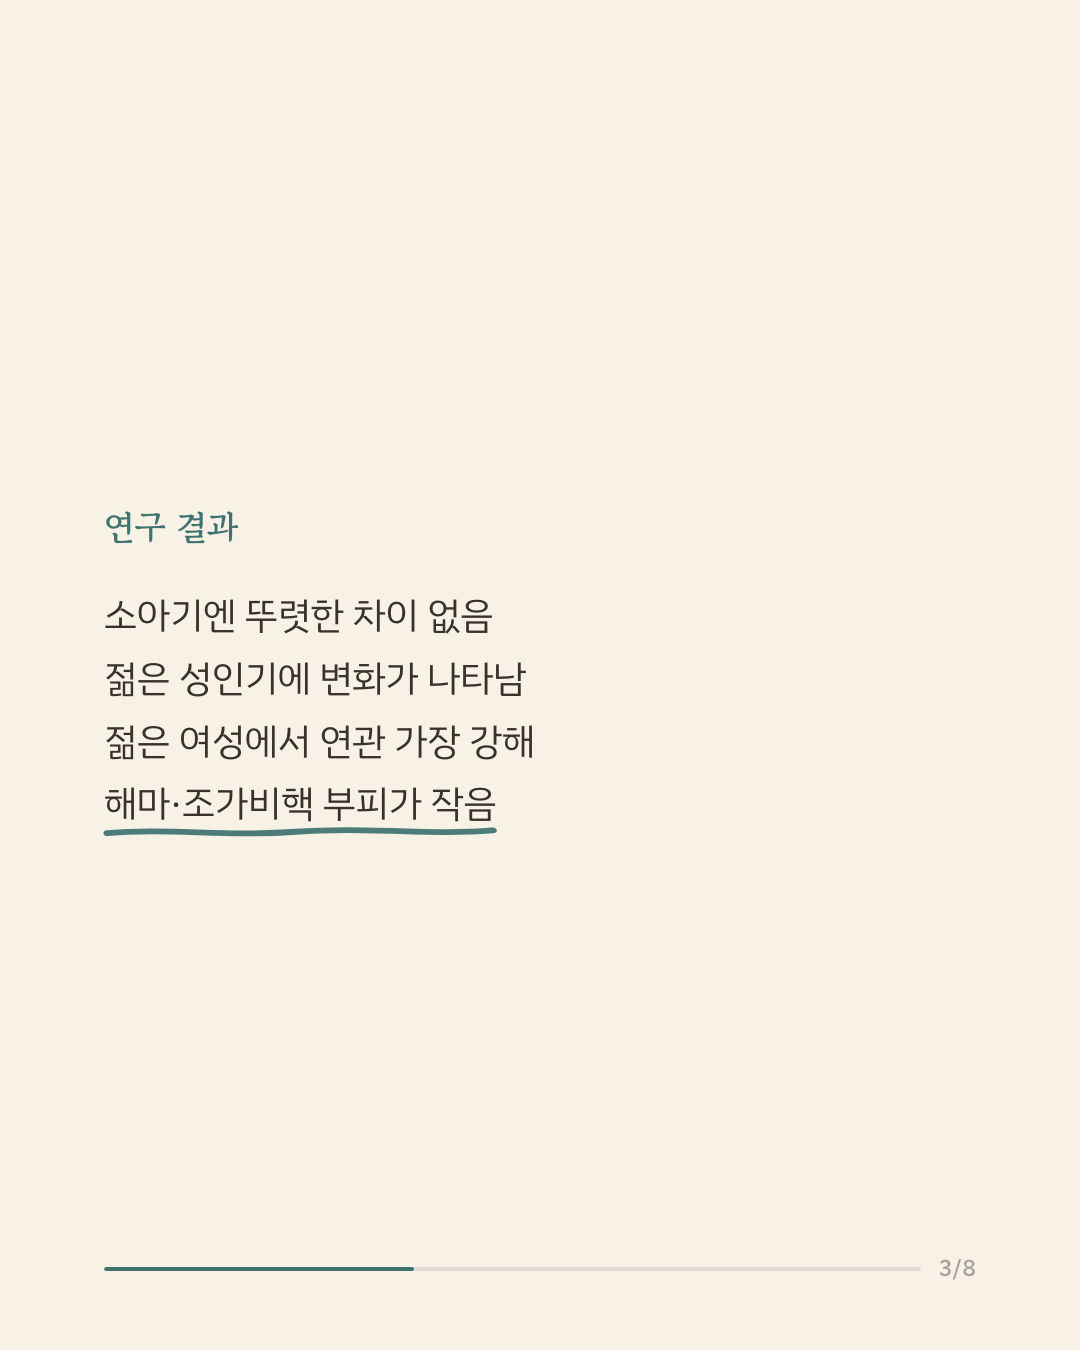
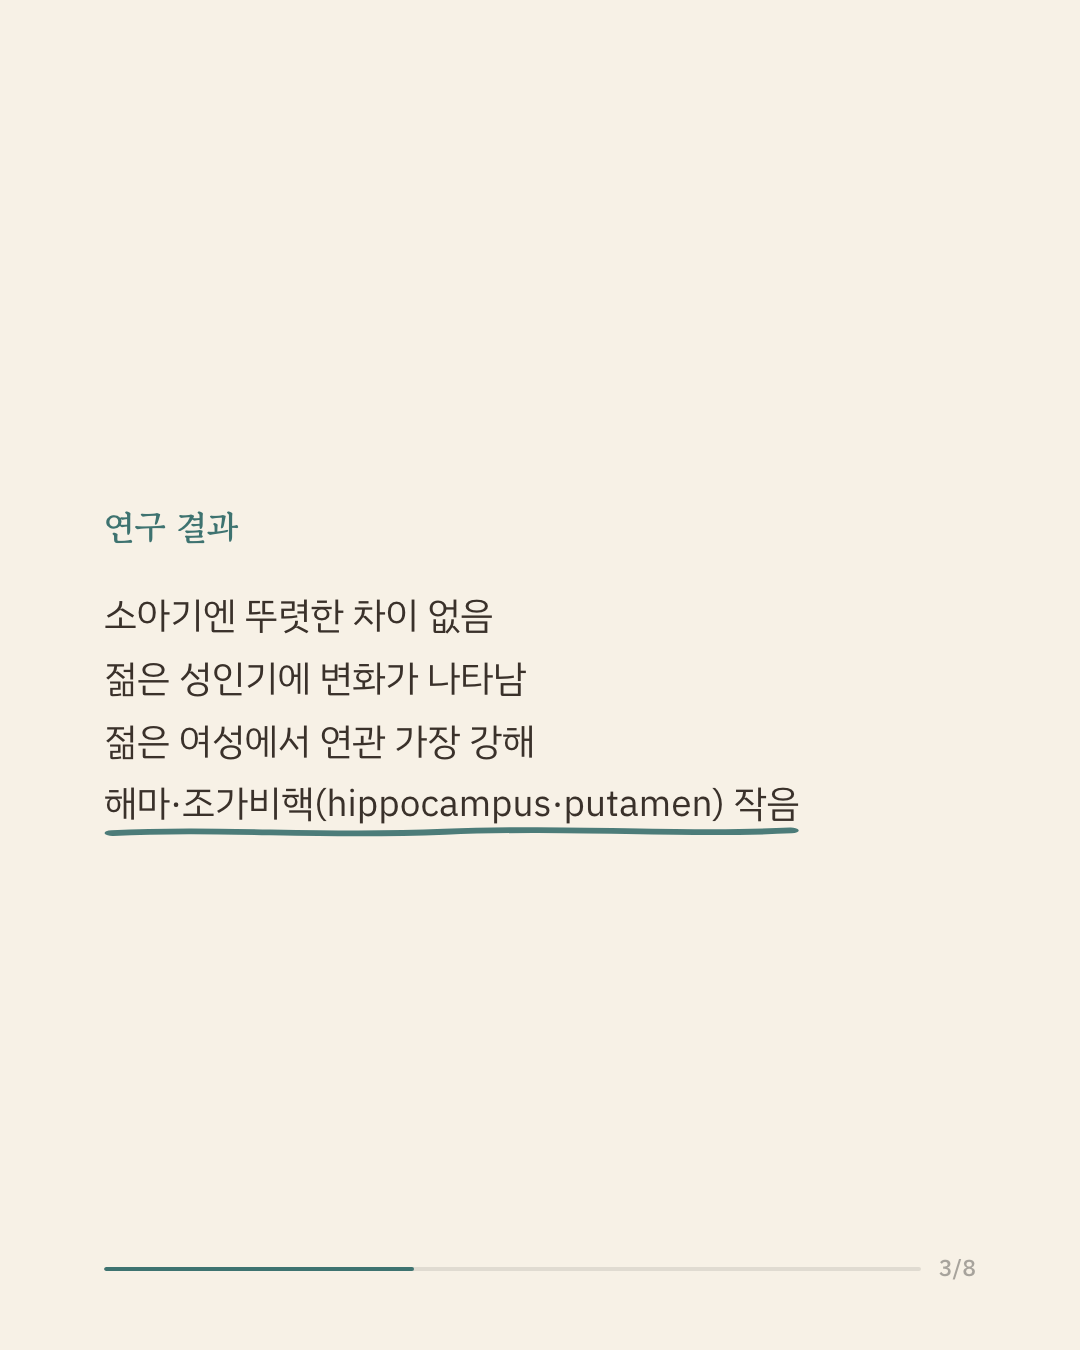
cards 41791639

Changed region(s): [[0.275, 0.56, 0.7333, 0.6222], [0.1833, 0.5911, 0.2444, 0.6222]]

diff --git a/41791639/preview.html b/41791639/preview.html
@@ -15,6 +15,6 @@ details{color:#cbbfb4} summary{cursor:pointer}
 <div class="top"><span>학대가 뇌에 남기는 흔적</span><span>9장 · 신경영상</span></div>
 <div class="gal"><img src="01.png" alt="슬라이드 1" loading="lazy"><img src="02.png" alt="슬라이드 2" loading="lazy"><img src="03.png" alt="슬라이드 3" loading="lazy"><img src="04.png" alt="슬라이드 4" loading="lazy"><img src="05.png" alt="슬라이드 5" loading="lazy"><img src="06.png" alt="슬라이드 6" loading="lazy"><img src="07.png" alt="슬라이드 7" loading="lazy"><img src="08.png" alt="슬라이드 8" loading="lazy"><img src="09.png" alt="슬라이드 9" loading="lazy"></div>
 <div class="bot">
-<details><summary>캡션 보기</summary><p style="font-size:13px;line-height:1.6">아동기의 학대와 방임은 성인기의 우울증과 외상 후 스트레스 장애 위험을 높이는 것으로 알려져 있습니다. 다만 이 두 질환에서 관찰되는 뇌 구조의 변화가 실제로 아동기 학대에서 비롯된 것인지는 분명하지 않았습니다. 연구진은 ENIGMA 컨소시엄의 우울증·PTSD 연구 그룹에 참여한 25개 기관, 3,711명(평균 33.3세, 59.9% 여성)의 뇌 MRI 자료를 규범 모델링으로 분석해 뇌 부피, 피질 두께, 표면적의 편차 점수를 구하고, 성별과 연령대(소아, 젊은 성인, 노년 성인)로 나누어 학대와의 연관성을 살펴보았습니다. 18세 이하 참가자에서는 유의한 차이가 나타나지 않았습니다. 반면 18~35세 젊은 성인에서는 학대가 시상과 담창구의 부피 증가, 일부 전두·대상 영역의 두께 변화와 관련이 있었고, 특히 젊은 여성에서 연관이 가장 뚜렷해 학대와 방임 경험이 많을수록 해마와 조가비핵의 부피가 작고 내후각 피질이 얇았으며 그 크기는 대체로 작은 수준(|β| 0.07~0.22)이었습니다. 연구진은 학대가 뇌에 남기는 영향이 발달 시기와 성별에 따라 다르게 나타난다는 점을 보여준다고 설명합니다. 다만 뇌 영상이 한 시점에 촬영된 단면 자료여서 학대와 뇌 변화의 선후 관계를 알기 어렵고, 학대 정보도 후향적 자기보고에 의존하며, 여러 기관의 자료를 합친 만큼 표본마다 질의 차이가 있습니다. 단일 연구이므로 확대 해석은 조심해야 합니다. 출처: Biological Psychiatry(2026), ENIGMA MDD·PTSD Working Groups.  #임상심리 #정신건강정보 #심리학연구 #아동학대 #뇌영상연구</p></details>
+<details><summary>캡션 보기</summary><p style="font-size:13px;line-height:1.6">아동기의 학대와 방임은 성인기의 우울증과 외상 후 스트레스 장애 위험을 높이는 것으로 알려져 있습니다. 다만 이 두 질환에서 관찰되는 뇌 구조의 변화가 실제로 아동기 학대에서 비롯된 것인지는 분명하지 않았습니다. 연구진은 ENIGMA 컨소시엄의 우울증·PTSD 연구 그룹에 참여한 25개 기관, 3,711명(평균 33.3세, 59.9% 여성)의 뇌 MRI 자료를 규범 모델링으로 분석해 뇌 부피, 피질 두께, 표면적의 편차 점수를 구하고, 성별과 연령대(소아, 젊은 성인, 노년 성인)로 나누어 학대와의 연관성을 살펴보았습니다. 18세 이하 참가자에서는 유의한 차이가 나타나지 않았습니다. 반면 18~35세 젊은 성인에서는 학대가 시상(thalamus)과 담창구(globus pallidus)의 부피 증가, 일부 전두·대상 영역의 두께 변화와 관련이 있었고, 특히 젊은 여성에서 연관이 가장 뚜렷해 학대와 방임 경험이 많을수록 해마(hippocampus)와 조가비핵(putamen)의 부피가 작고 내후각 피질(entorhinal cortex)이 얇았으며 그 크기는 대체로 작은 수준(|β| 0.07~0.22)이었습니다. 연구진은 학대가 뇌에 남기는 영향이 발달 시기와 성별에 따라 다르게 나타난다는 점을 보여준다고 설명합니다. 다만 뇌 영상이 한 시점에 촬영된 단면 자료여서 학대와 뇌 변화의 선후 관계를 알기 어렵고, 학대 정보도 후향적 자기보고에 의존하며, 여러 기관의 자료를 합친 만큼 표본마다 질의 차이가 있습니다. 단일 연구이므로 확대 해석은 조심해야 합니다. 출처: Biological Psychiatry(2026), ENIGMA MDD·PTSD Working Groups.  #임상심리 #정신건강정보 #심리학연구 #아동학대 #뇌영상연구</p></details>
 <span>원문: <a href="https://pubmed.ncbi.nlm.nih.gov/41791639/" target="_blank" rel="noopener">PubMed</a> · <a href="https://doi.org/10.1016/j.biopsych.2026.02.016" target="_blank" rel="noopener">원문(DOI)</a> · 승인: <code>python3 publish.py 41791639</code></span>
 </div></body></html>
